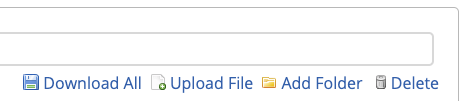
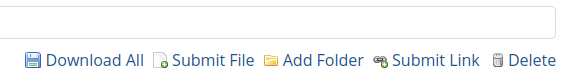
Updated General Usage page to show how to upload URLs and reflect change in name for Upload File button

Changed region(s): [[0.0, 0.325, 0.9935, 0.925], [0.0, 0.05, 0.9935, 0.075]]

diff --git a/General-Usage.md b/General-Usage.md
@@ -8,8 +8,8 @@
 The file manager allows you to upload a file or folder, download all files and folders (as a zip file) and to delete individual files and folders. Note that the "Delete" option is only visible if you have selected a file or folder on the table.
 ![File Manager Options](images/file-manager-options.png)
 
-To add a file, click on the "Add New File" link located on the right side of the page:
-![File Manager Options](images/file-manager-add-new-file.png)
+To add a file, click on the "Submit File" link located on the right side of the page:
+![File Manager Options](images/file-manager-submit-file.png)
 
 This will display the "Upload" modal where you will be able to browse for files to upload:
 ![Upload Files Autotesting](images/file-manager-upload-modal.png)
@@ -39,6 +39,13 @@ When a file has been added to a folder it will not be visible unless you have th
 
 In the above example, the .png files are contained within "New_Folder_1" as can be seen by their indent. If we close the folder by clicking on its name, the table looks like this:
 ![Files in Folder Example 2](images/file-manager-closed-folder.png)
+
+In addition, if an instructor has enabled the option, you are also able to submit URLs. To create a new URL, click on the "Submit Link" link located on the right side of the page:
+![File Manager Options](images/file-manager-submit-link.png)
+
+This will display the "Submit Link" modal where you will be able to enter an HTTP/HTTPS link and a name for that link:
+![Submit Link Modal Display](images/file-manager-upload-url-modal.png)
+After entering the link information and clicking on "Save", a `.markusurl` file will be created containing only the HTTP/HTTPS link and uses the name for the link as the filename. 
 
 Once you have added your files the data that may be displayed on the table (Note that the columns shown may vary slightly depending on the view):
 
